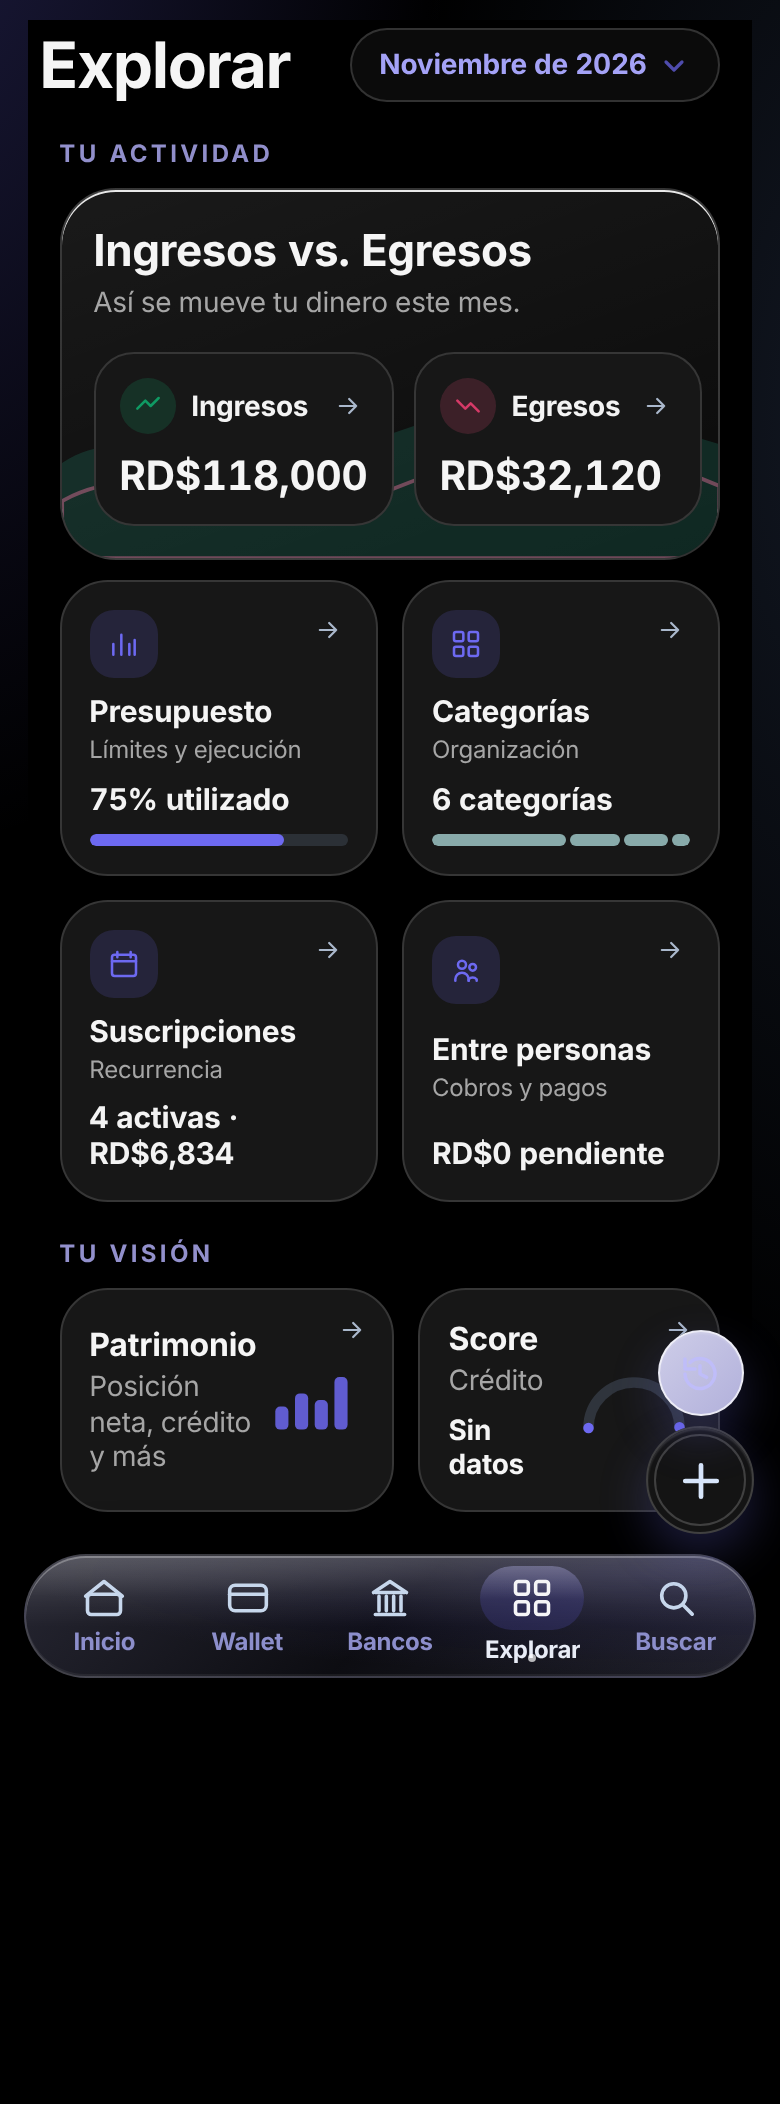
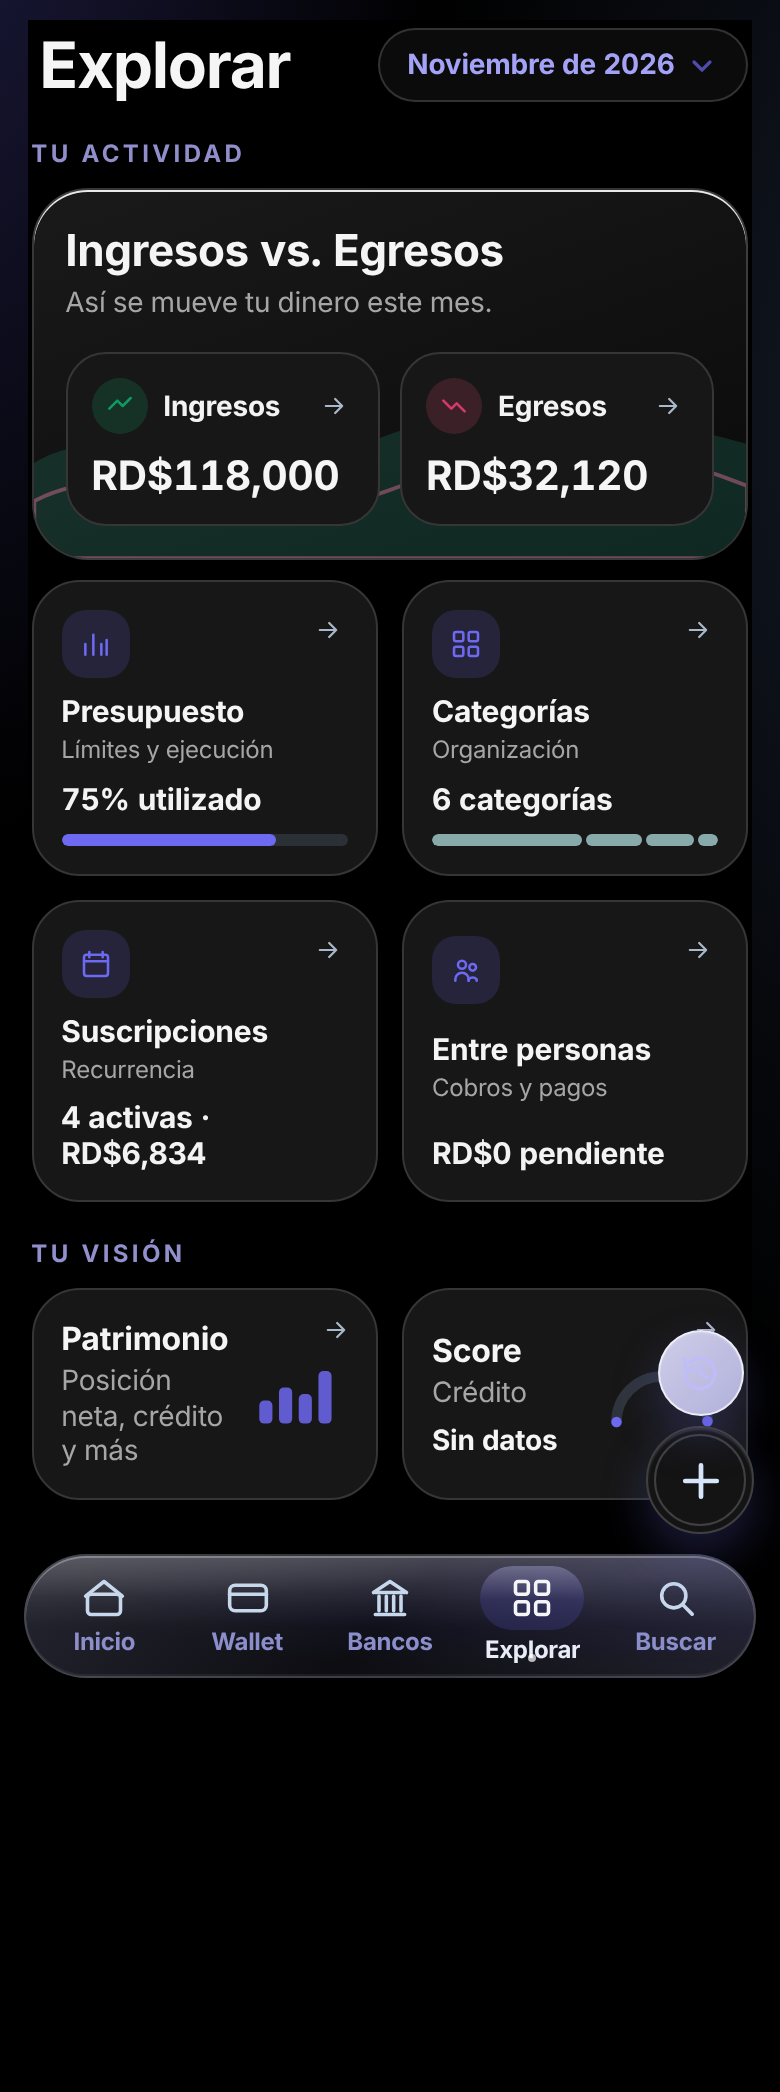
Explorar móvil: ancho de tarjetas igual que Bancos (16 px); Buscar: título más arriba, alineado con Explorar y Bancos
Claude-Session: https://claude.ai/code/session_01AwzF8JXGCqasa7rHAy2PHn

diff --git a/src/explore-mobile-glass.css b/src/explore-mobile-glass.css
@@ -1,9 +1,9 @@
 /* Explorar móvil · Premium Liquid Glass. Solo móvil. */
 @media (max-width:790px){
-html body #app#app main.world-mobilehub #page#page .vxm{display:flex!important;flex-direction:column;gap:18px;padding:4px 16px 130px!important;max-width:100%;overflow:hidden;box-sizing:border-box;--vxm-ink:#10223a;--vxm-sub:#4a5d78;--vxm-acc:var(--lg-accent,var(--ui-accent,#0e9f8e));--vxm-glass:rgba(255,255,255,.58);--vxm-line:rgba(255,255,255,.85);--vxm-sh:0 10px 30px rgba(40,70,110,.12)}
+html body #app#app main.world-mobilehub #page#page .vxm{display:flex!important;flex-direction:column;gap:18px;padding:4px 2px 130px!important;max-width:100%;overflow:hidden;box-sizing:border-box;--vxm-ink:#10223a;--vxm-sub:#4a5d78;--vxm-acc:var(--lg-accent,var(--ui-accent,#0e9f8e));--vxm-glass:rgba(255,255,255,.58);--vxm-line:rgba(255,255,255,.85);--vxm-sh:0 10px 30px rgba(40,70,110,.12)}
 html body.theme-dark #app#app main.world-mobilehub #page#page .vxm,html body.theme-black #app#app main.world-mobilehub #page#page .vxm{--vxm-ink:#f2f6fb;--vxm-sub:#aab8cc;--vxm-glass:rgba(255,255,255,.07);--vxm-line:rgba(255,255,255,.16);--vxm-sh:0 12px 30px rgba(0,0,0,.4)}
 html body #app#app main.world-mobilehub #page#page .vxm *{box-sizing:border-box;min-width:0}
-html body #app#app main.world-mobilehub #page#page .vxm .vxm-head{display:flex;align-items:center;justify-content:space-between;gap:12px;margin:0 0 0 -10px}
+html body #app#app main.world-mobilehub #page#page .vxm .vxm-head{display:flex;align-items:center;justify-content:space-between;gap:12px;margin:0 0 0 4px}
 html body #app#app main.world-mobilehub #page#page .vxm .vxm-head h1{margin:0;white-space:nowrap;flex:none;width:auto!important;font-size:32px;line-height:1.1;font-weight:700;letter-spacing:-.02em;color:var(--vxm-ink)}
 html body #app#app main.world-mobilehub #page#page .vxm .vxm-period{display:inline-flex;align-items:center;gap:6px;position:relative;padding:9px 14px;border-radius:999px;background:var(--vxm-glass);border:1px solid var(--vxm-line);box-shadow:var(--vxm-sh);-webkit-backdrop-filter:blur(18px) saturate(1.5);backdrop-filter:blur(18px) saturate(1.5);color:var(--vxm-ink);font-weight:700;font-size:14px;white-space:nowrap;width:auto!important;text-transform:lowercase}
 html body #app#app main.world-mobilehub #page#page .vxm .vxm-period span::first-letter{text-transform:uppercase}
@@ -54,3 +54,5 @@ html body #app#app main.world-mobilehub #page#page .vxm button:focus-visible{out
 }
 /* Explorar: título alineado con Bancos y Mis tarjetas (arriba-izquierda, 32 px) */
 html body #app#app main.world-mobilehub #page#page{margin-top:-14px}
+/* Buscar: título a la misma altura que Explorar y Bancos */
+html body #app#app main.world-mobilesearch #page#page .v721-search-shell .v711-search-heading{margin-top:-18px!important}

diff --git a/index.html b/index.html
@@ -44,7 +44,7 @@
 <link rel="stylesheet" href="./src/wallet-cut-consumption.css?v=23"/>
 <link rel="stylesheet" href="./src/liquid-material.css?v=21.111"/>
 <link rel="stylesheet" href="./src/expenses-pc-glass.css?v=2011" media="(min-width: 791px)"/>
-<link rel="stylesheet" href="./src/explore-mobile-glass.css?v=73" media="(max-width: 790px)"/>
+<link rel="stylesheet" href="./src/explore-mobile-glass.css?v=74" media="(max-width: 790px)"/>
 <link rel="stylesheet" href="./src/movimientos-legibility.css?v=1013" media="(min-width: 791px)"/>
 <link rel="stylesheet" href="./src/flujo-movil.css?v=5" media="(max-width: 790px)"/>
 <link rel="stylesheet" href="./src/vx-material.css?v=201"/>
